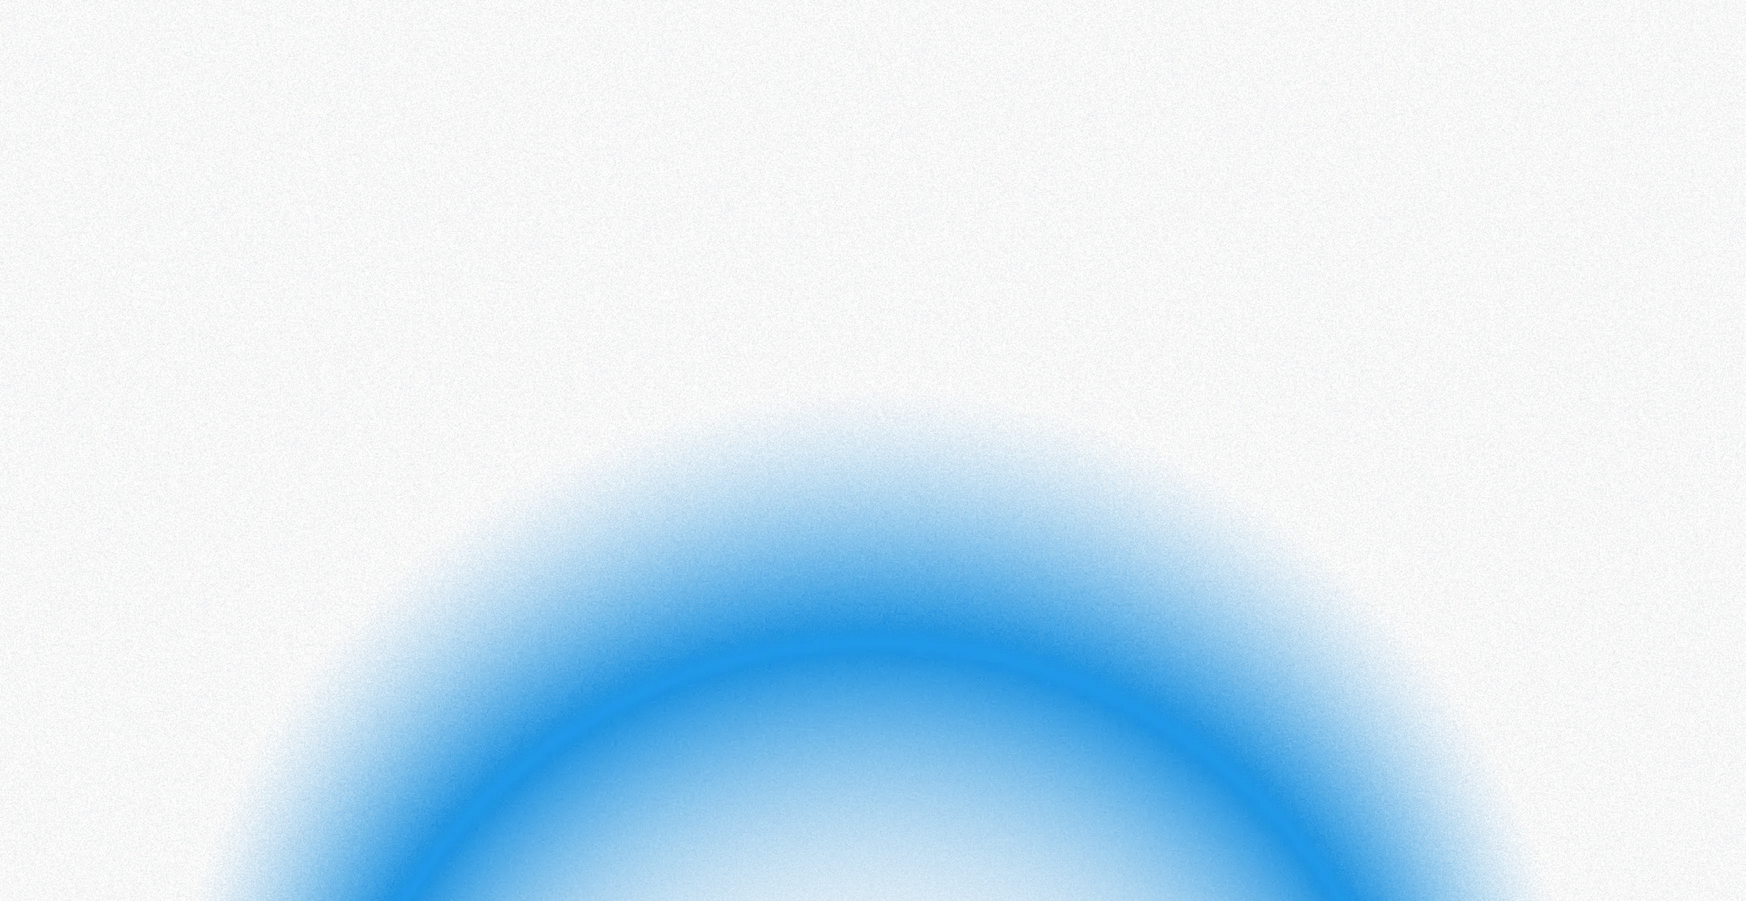
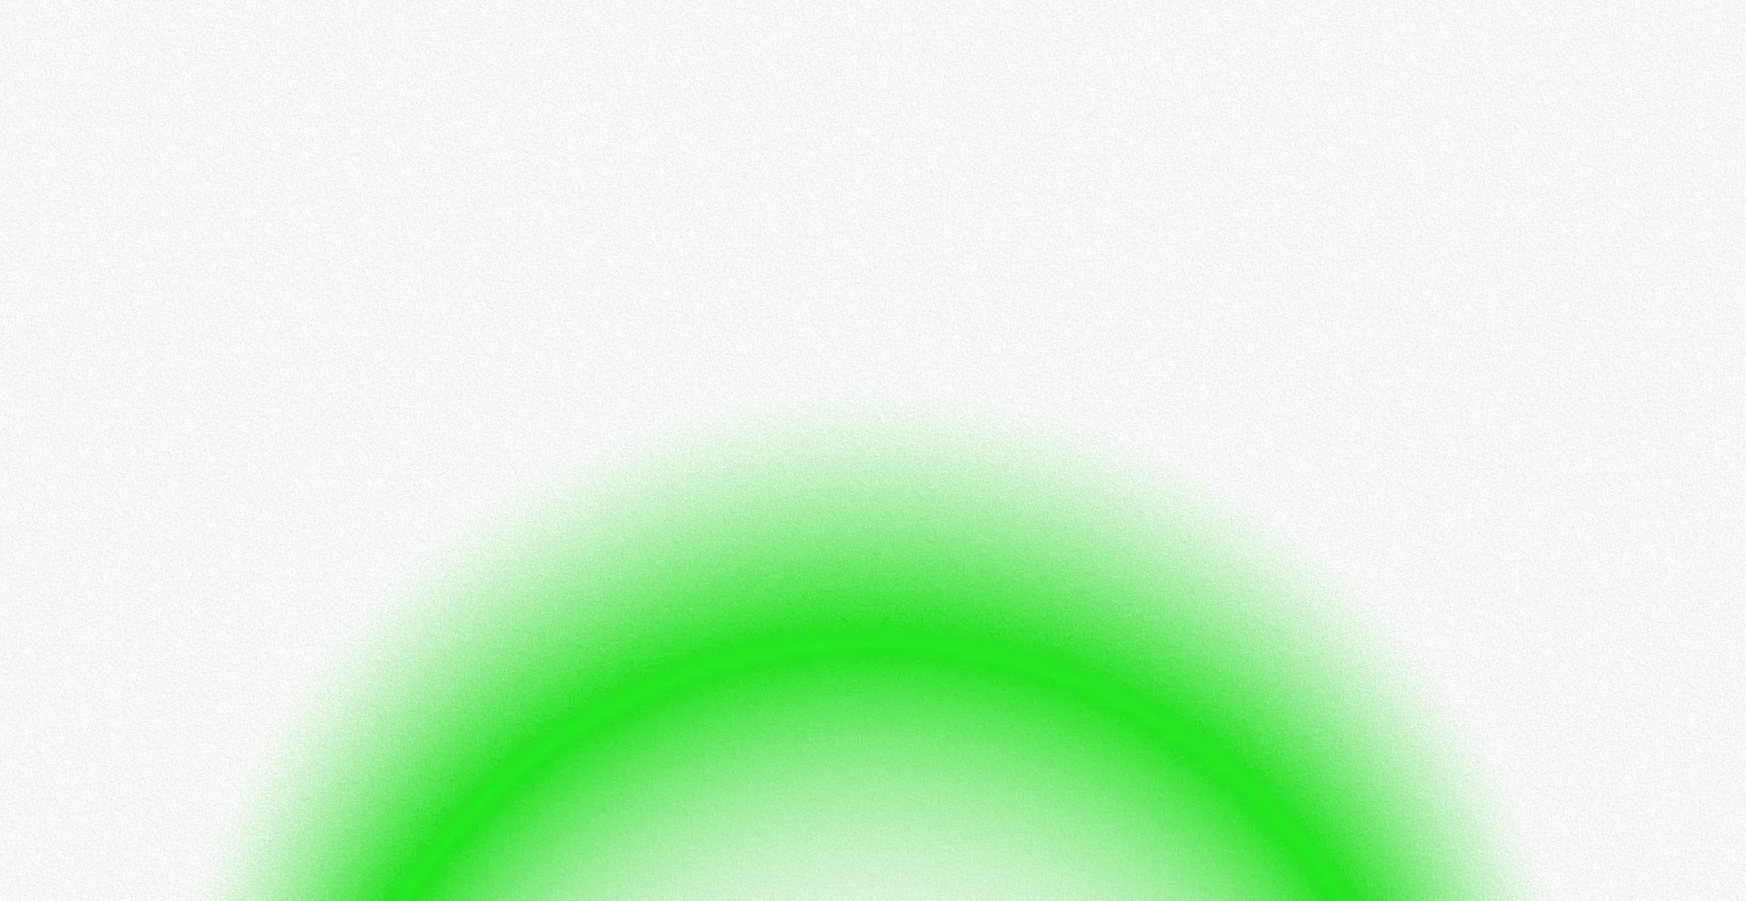
Actualizar imágenes y ajustar estilos en PricingCard para mejorar la presentación

Changed region(s): [[0.1237, 0.4661, 0.866, 1.0]]

diff --git a/src/components/pricingCard.tsx b/src/components/pricingCard.tsx
@@ -32,7 +32,7 @@ function ShinyPrice({
   children,
   speed = 3,
   color = "#171717",
-  shineColor = "#1e9df1",
+  shineColor = "#1ef15d",
   spread = 120,
   className = "",
 }: ShinyPriceProps) {
@@ -255,17 +255,35 @@ export default function PricingCard({ viewComparison }: Props) {
                             strokeWidth="2.5  "
                             strokeLinecap="round"
                             strokeLinejoin="round"
-                            className="lucide lucide-check size-4 shrink-0 mt-0.5 text-[#1e9df1]"
+                            className="lucide lucide-check size-4 shrink-0 mt-0.5 text-[#0ade49]"
                             aria-hidden="true"
                           >
                             <path d="M20 6 9 17l-5-5"></path>
                           </svg>
                           <div className="flex items-center gap-1">
                             <span
+                              onClick={() => {
+                                if (!benefit.description) return;
+                                if (
+                                  openDescription?.cardName === pricing.name &&
+                                  openDescription.benefitIndex === index
+                                ) {
+                                  setOpenDescription(null);
+                                } else {
+                                  setOpenDescription({
+                                    cardName: pricing.name,
+                                    benefitIndex: index,
+                                  });
+                                }
+                              }}
                               className={cn(
-                                "text-sm",
+                                "text-sm transition-colors duration-200",
+                                benefit.description && "cursor-pointer",
                                 benefit.highlight &&
                                   "bg-gradient-to-tr text-black from-[#ededed] via-[#fffffff1] to-[#ededed] border border-[#ffffff] font-medium px-2 py-1 rounded-md",
+                                openDescription?.cardName === pricing.name &&
+                                  openDescription.benefitIndex === index &&
+                                  "text-neutral-800 font-medium",
                               )}
                             >
                               {benefit.text}
@@ -287,7 +305,13 @@ export default function PricingCard({ viewComparison }: Props) {
                                     });
                                   }
                                 }}
-                                className="text-neutral-400 px-0.5 hover:text-neutral-700 hover:bg-neutral-100 duration-300 rounded-md ml-2 font-bold cursor-pointer"
+                                className={cn(
+                                  "px-0.5 hover:text-neutral-700 hover:bg-neutral-100 duration-300 rounded-md ml-2 font-bold cursor-pointer",
+                                  openDescription?.cardName === pricing.name &&
+                                    openDescription.benefitIndex === index
+                                    ? "text-neutral-700 bg-gradient-to-tr  from-[#f0f0f0] via-[#fffffff1] to-[#f0f0f0]"
+                                    : "text-neutral-400",
+                                )}
                                 aria-label="Ver más"
                               >
                                 <svg
@@ -302,14 +326,12 @@ export default function PricingCard({ viewComparison }: Props) {
                                   strokeLinejoin="round"
                                   className="size-[1.2rem] inline-block"
                                 >
-                                  <path
-                                    stroke="none"
-                                    d="M0 0h24v24H0z"
-                                    fill="none"
-                                  />
-                                  <path d="M5 12m-1 0a1 1 0 1 0 2 0a1 1 0 1 0 -2 0" />
-                                  <path d="M12 12m-1 0a1 1 0 1 0 2 0a1 1 0 1 0 -2 0" />
-                                  <path d="M19 12m-1 0a1 1 0 1 0 2 0a1 1 0 1 0 -2 0" />
+                                  {openDescription?.cardName === pricing.name &&
+                                  openDescription.benefitIndex === index ? (
+                                    <path d="M6 15l6 -6l6 6" />
+                                  ) : (
+                                    <path d="M6 9l6 6l6 -6" />
+                                  )}
                                 </svg>
                               </button>
                             )}
@@ -331,7 +353,7 @@ export default function PricingCard({ viewComparison }: Props) {
                                 }}
                                 style={{ overflow: "hidden" }}
                               >
-                                <p className="ml-7 text-neutral-400 text-sm text-left pt-1">
+                                <p className="ml-7 text-zinc-600 text-[13px] text-left pt-1 mt-1 bg-gradient-to-tr  from-[#f0f0f0] via-[#fffffff1] to-[#f0f0f0] border border-[#ffffff] rounded-md px-2 py-1.5">
                                   {benefit.description}
                                 </p>
                               </motion.div>
@@ -355,7 +377,7 @@ export default function PricingCard({ viewComparison }: Props) {
                   className={cn(
                     "inline-flex items-center justify-center gap-2 whitespace-nowrap text-sm font-semibold ring-offset-background transition-all focus-visible:outline-none focus-visible:ring-2 focus-visible:ring-ring focus-visible:ring-offset-2 disabled:pointer-events-none disabled:opacity-50 [&_svg]:pointer-events-none [&_svg]:size-4 [&_svg]:shrink-0 cursor-pointer h-12 rounded-[20px] px-8 w-full",
                     isPopular
-                      ? "bg-gradient-to-b from-[#1e9df1] via-[#1e9df1] to-[#1e9df1]/80 text-primary-foreground shadow-[0_4px_12px_rgba(0,0,0,0.15),inset_0_1px_0_rgba(255,255,255,0.2),inset_0_-1px_0_rgba(0,0,0,0.1)] hover:shadow-[0_6px_16px_rgba(0,0,0,0.2),inset_0_1px_0_rgba(255,255,255,0.25),inset_0_-1px_0_rgba(0,0,0,0.1)] hover:translate-y-[-1px] active:translate-y-[1px] active:shadow-[0_2px_8px_rgba(0,0,0,0.15),inset_0_1px_0_rgba(255,255,255,0.1),inset_0_-1px_0_rgba(0,0,0,0.1)] border border-[#1e9df1]/50"
+                      ? "bg-gradient-to-b from-[#1ef15d]/70 via-[#1ef15d] to-[#1ef15d]/70 text-primary-foreground shadow-[0_4px_12px_rgba(0,0,0,0.15),inset_0_1px_0_rgba(255,255,255,0.2),inset_0_-1px_0_rgba(0,0,0,0.1)] hover:shadow-[0_6px_16px_rgba(0,0,0,0.2),inset_0_1px_0_rgba(255,255,255,0.25),inset_0_-1px_0_rgba(0,0,0,0.1)] hover:translate-y-[-1px] active:translate-y-[1px] active:shadow-[0_2px_8px_rgba(0,0,0,0.15),inset_0_1px_0_rgba(255,255,255,0.1),inset_0_-1px_0_rgba(0,0,0,0.1)] border border-[#1ef15d]/20"
                       : "bg-gradient-to-b from-[#0f1419] via-[#0f1419] to-[#0f1419]/80 text-white shadow-[0_2px_8px_rgba(0,0,0,0.08),inset_0_1px_0_rgba(255,255,255,0.3),inset_0_-1px_0_rgba(0,0,0,0.05)] hover:shadow-[0_4px_12px_rgba(0,0,0,0.12),inset_0_1px_0_rgba(255,255,255,0.4)] hover:translate-y-[-1px] active:translate-y-[1px]",
                   )}
                 >
@@ -373,7 +395,7 @@ export default function PricingCard({ viewComparison }: Props) {
                   variants={scaleUp}
                 >
                   <div className="text-center py-1.5">
-                    <span className="text-sm flex items-center gap-1 justify-center font-medium text-[#1e9df1]">
+                    <span className="text-sm flex items-center gap-1 justify-center font-semibold text-[#1aff00a5]">
                       <svg
                         xmlns="http://www.w3.org/2000/svg"
                         width="24"

diff --git a/src/app/globals.css b/src/app/globals.css
@@ -165,7 +165,7 @@ html {
   background: linear-gradient(
     to bottom,
     #fffafa 0%,
-    color-mix(in srgb, #e5e5e6 30%, transparent)
+    color-mix(in srgb, #e5e5e6 40%, transparent)
   );
 }
 
